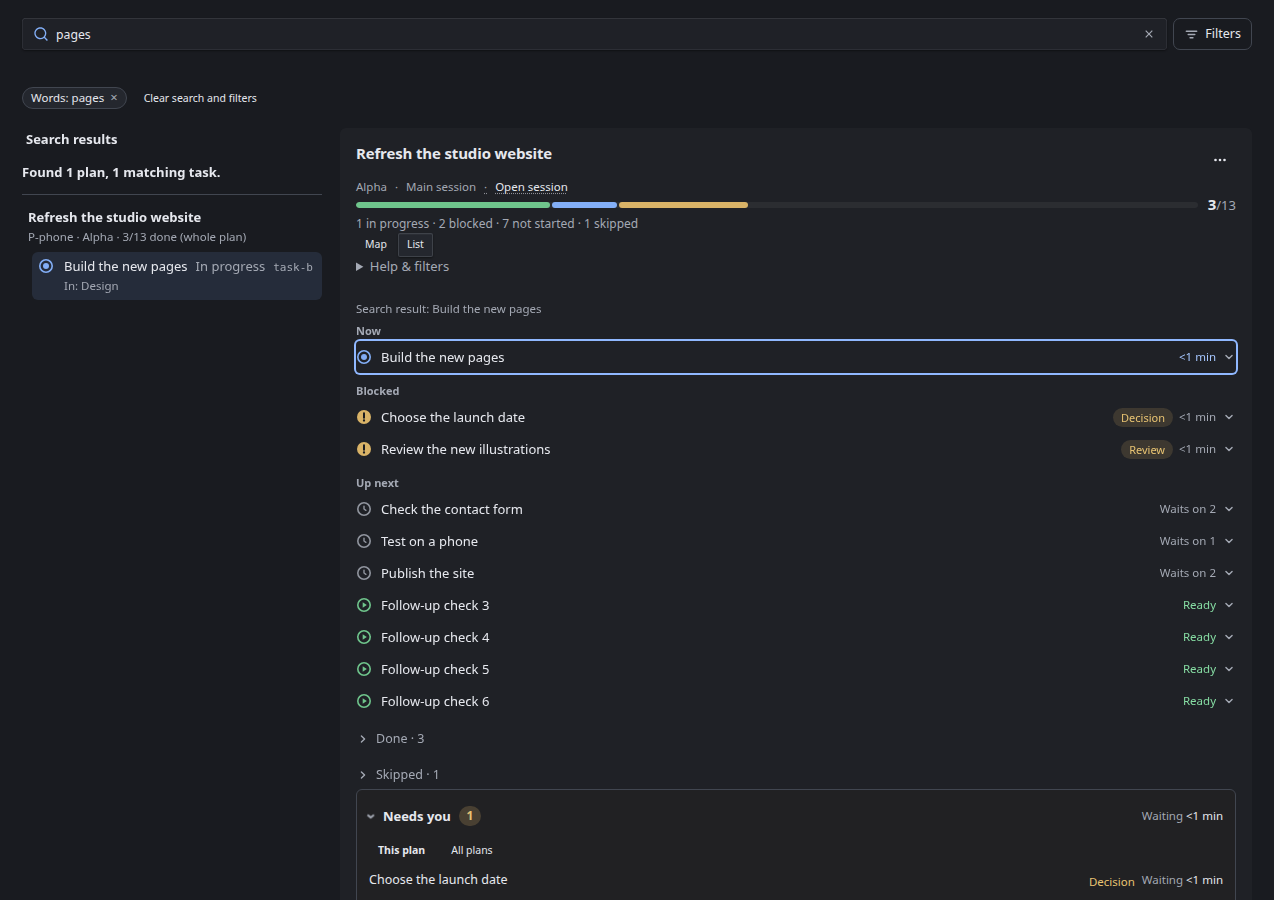
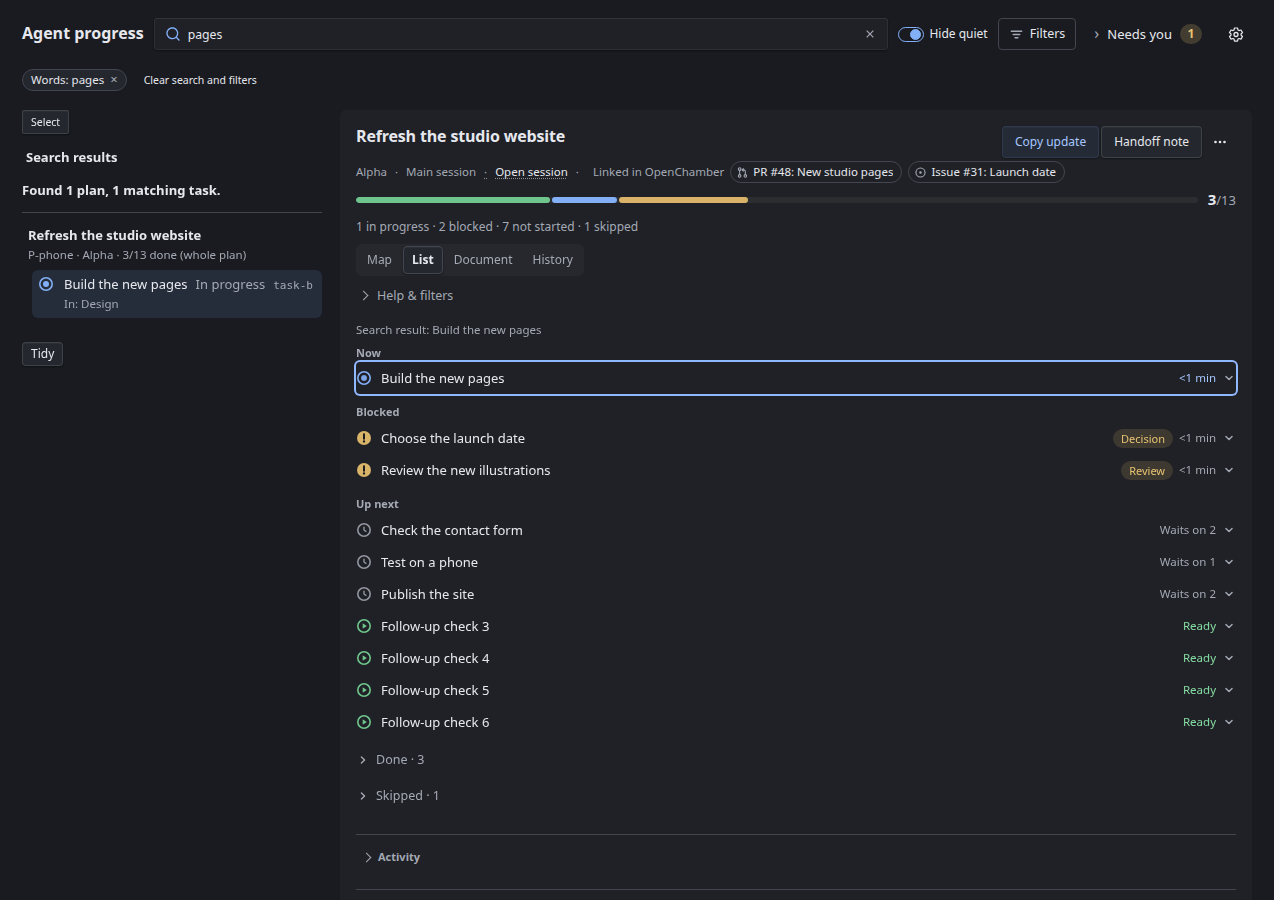
docs(readme): show the 1.7.0 board and rail

diff --git a/README.md b/README.md
@@ -21,7 +21,7 @@ Agent Progress is an [OpenChamber](https://github.com/openchamber/openchamber) e
 - **Know when it's your turn.** *Needs you* shows decisions and reviews the main session asks you to handle, with **Open session**, **Copy reply** and **Hide**.
 - **Watch your sub-agents.** Running sub-agents get one line each, and everything else stays tucked away until you ask.
 - **Open the right session's progress.** Choose **Open Agent Progress** in a session's menu, even while another chat is visible. The panel stays on the clicked session. Choose **Show current session** to follow the visible chat again; see the [host reopening limitation](docs/ui.md#native-session-entry-and-optional-host-context).
-- **Read the saved plan.** Choose **Plan document** beside **Map** and **List**.
+- **Read the saved plan.** Choose **Document** beside **Map** and **List**.
 - **Plan views and actions.** Switch between Map, List, Document and History. **Copy update** and **Handoff note** open previews; use the **Settings** gear for language, Setup and Troubleshooting.
 - **Make room for current plans.** The rail and board hide active plans that haven’t reported in seven days by default. Use **Hide quiet** by the rail plan chooser or board Filters to change that. No reports does not mean the work has stopped or finished.
 - **Close a plan you no longer need.** Choose **More → Finish as cancelled** and confirm. History and unfinished tasks stay available; the action does not stop running agents.
@@ -36,7 +36,7 @@ Agent Progress is an [OpenChamber](https://github.com/openchamber/openchamber) e
     <th width="50%">Work Status</th>
   </tr>
   <tr>
-    <td align="center"><img src="docs/images/readme/rail.png" alt="Right rail: a plan's progress, dependency map and Needs you, with one More menu" width="390"></td>
+    <td align="center"><img src="docs/images/readme/rail.png" alt="Right rail: plan chooser with Settings and More, Hide quiet, the plan title with two linked work chips, Copy update and Handoff note, the progress bar, and the List view with Now, Blocked and Up next tasks" width="390"></td>
     <td align="center"><img src="docs/images/readme/work-status.png" alt="Work Status: plan title with position picker, progress bar, running and Needs you counts, and Open progress" width="322"></td>
   </tr>
   <tr>
@@ -47,7 +47,7 @@ Agent Progress is an [OpenChamber](https://github.com/openchamber/openchamber) e
     <th colspan="2">Fullscreen board</th>
   </tr>
   <tr>
-    <td colspan="2" align="center"><img src="docs/images/readme/board-search.png" alt="Fullscreen board: a search for pages, with a matching task opened beside its search result" width="820"></td>
+    <td colspan="2" align="center"><img src="docs/images/readme/board-search.png" alt="Fullscreen board: a search for pages in the top bar beside Hide quiet, Filters, Needs you and Settings; the matching task is highlighted in the plan's List, under a header with linked work chips, Copy update, Handoff note and More" width="820"></td>
   </tr>
   <tr>
     <td colspan="2">Every plan across projects, worktrees and sessions, with search, filters, history and the dependency map.</td>
